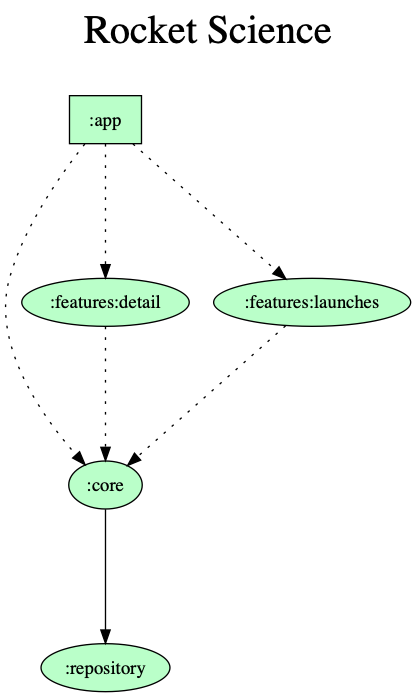
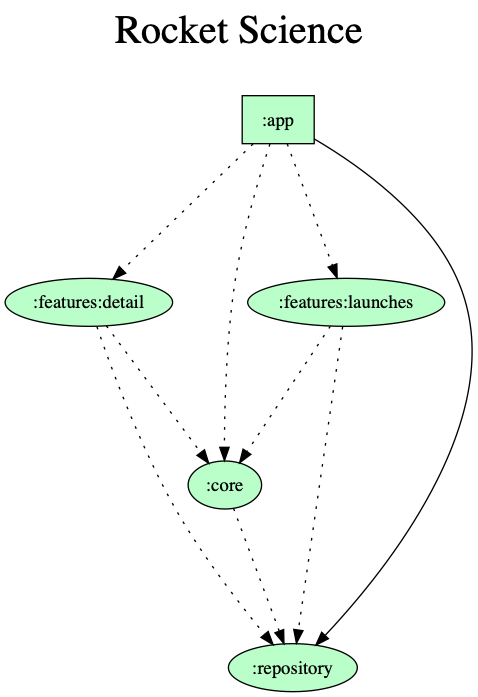
Feature/core repository separation (#44)
* Fixed wrong package name. Fixes #43 

* Updated package name. Fixes #41 

* Ignoring not-used warning - this graph is included in main graph

* Separated repository from core. Fixes #42 

* Removing adapter from recyclerView when view is destroyed to prevent leak. Fixes #40 

* Updated new module graph

diff --git a/features/launches/src/main/kotlin/com/melih/launches/ui/LaunchesFragment.kt b/features/launches/src/main/kotlin/com/melih/launches/ui/LaunchesFragment.kt
@@ -1,4 +1,4 @@
-package com.melih.list.ui
+package com.melih.launches.ui
 
 import android.os.Bundle
 import android.view.View
@@ -7,10 +7,10 @@ import androidx.swiperefreshlayout.widget.SwipeRefreshLayout
 import com.melih.core.actions.openDetail
 import com.melih.core.base.lifecycle.BaseDaggerFragment
 import com.melih.core.extensions.observe
-import com.melih.list.R
-import com.melih.list.databinding.ListBinding
-import com.melih.list.ui.adapters.LaunchesAdapter
-import com.melih.list.ui.vm.LaunchesViewModel
+import com.melih.launches.R
+import com.melih.launches.databinding.ListBinding
+import com.melih.launches.ui.adapters.LaunchesAdapter
+import com.melih.launches.ui.vm.LaunchesViewModel
 import com.melih.repository.entities.LaunchEntity
 import com.melih.repository.interactors.base.PersistenceEmpty
 import com.melih.repository.interactors.base.State
@@ -48,6 +48,11 @@ class LaunchesFragment : BaseDaggerFragment<ListBinding>(), SwipeRefreshLayout.O
 
         // Workaround for SwipeRefreshLayout leak -> https://issuetracker.google.com/issues/136153683
         binding.swipeRefreshLayout.isEnabled = false
+    }
+
+    override fun onDestroyView() {
+        super.onDestroyView()
+        binding.rocketList.adapter = null
     }
     //endregion
 

diff --git a/features/launches/src/main/kotlin/com/melih/launches/ui/adapters/LaunchesAdapter.kt b/features/launches/src/main/kotlin/com/melih/launches/ui/adapters/LaunchesAdapter.kt
@@ -1,11 +1,11 @@
-package com.melih.list.ui.adapters
+package com.melih.launches.ui.adapters
 
 import android.view.LayoutInflater
 import android.view.ViewGroup
 import com.melih.core.base.recycler.BasePagingListAdapter
 import com.melih.core.base.recycler.BaseViewHolder
 import com.melih.core.extensions.createDiffCallback
-import com.melih.list.databinding.LaunchRowBinding
+import com.melih.launches.databinding.LaunchRowBinding
 import com.melih.repository.entities.LaunchEntity
 
 class LaunchesAdapter(itemClickListener: (LaunchEntity) -> Unit) : BasePagingListAdapter<LaunchEntity>(

diff --git a/features/launches/src/test/kotlin/com/melih/launches/BaseTestWithMainThread.kt b/features/launches/src/test/kotlin/com/melih/launches/BaseTestWithMainThread.kt
@@ -1,6 +1,6 @@
 @file:UseExperimental(ExperimentalCoroutinesApi::class)
 
-package com.melih.list
+package com.melih.launches
 
 import kotlinx.coroutines.Dispatchers
 import kotlinx.coroutines.ExperimentalCoroutinesApi
@@ -10,6 +10,7 @@ import kotlinx.coroutines.test.setMain
 import org.junit.jupiter.api.AfterEach
 import org.junit.jupiter.api.BeforeEach
 
+@UseExperimental(ExperimentalCoroutinesApi::class)
 abstract class BaseTestWithMainThread {
 
     protected val dispatcher = TestCoroutineDispatcher()

diff --git a/features/launches/src/main/kotlin/com/melih/launches/di/LaunchesContributor.kt b/features/launches/src/main/kotlin/com/melih/launches/di/LaunchesContributor.kt
@@ -1,8 +1,8 @@
-package com.melih.list.di
+package com.melih.launches.di
 
-import com.melih.list.di.modules.LaunchesFragmentModule
-import com.melih.list.di.scopes.LaunchesFragmentScope
-import com.melih.list.ui.LaunchesFragment
+import com.melih.launches.di.modules.LaunchesFragmentModule
+import com.melih.launches.di.scopes.LaunchesFragmentScope
+import com.melih.launches.ui.LaunchesFragment
 import dagger.Module
 import dagger.android.ContributesAndroidInjector
 

diff --git a/features/launches/src/main/kotlin/com/melih/launches/di/modules/LaunchesFragmentModule.kt b/features/launches/src/main/kotlin/com/melih/launches/di/modules/LaunchesFragmentModule.kt
@@ -1,9 +1,9 @@
-package com.melih.list.di.modules
+package com.melih.launches.di.modules
 
 import androidx.lifecycle.ViewModel
 import androidx.paging.Config
 import com.melih.core.di.keys.ViewModelKey
-import com.melih.list.ui.vm.LaunchesViewModel
+import com.melih.launches.ui.vm.LaunchesViewModel
 import com.melih.repository.interactors.DEFAULT_LAUNCHES_AMOUNT
 import com.melih.repository.interactors.GetLaunches
 import dagger.Binds

diff --git a/features/launches/src/main/kotlin/com/melih/launches/ui/vm/LaunchesViewModel.kt b/features/launches/src/main/kotlin/com/melih/launches/ui/vm/LaunchesViewModel.kt
@@ -1,9 +1,9 @@
-package com.melih.list.ui.vm
+package com.melih.launches.ui.vm
 
 import androidx.paging.PagedList
 import com.melih.core.base.paging.BasePagingFactory
 import com.melih.core.base.viewmodel.BasePagingViewModel
-import com.melih.list.ui.paging.LaunchesPagingSourceFactory
+import com.melih.launches.ui.paging.LaunchesPagingSourceFactory
 import com.melih.repository.entities.LaunchEntity
 import javax.inject.Inject
 

diff --git a/features/detail/src/main/kotlin/com/melih/detail/di/DetailContributor.kt b/features/detail/src/main/kotlin/com/melih/detail/di/DetailContributor.kt
@@ -1,8 +1,8 @@
 package com.melih.detail.di
 
 import com.melih.detail.di.modules.DetailFragmentModule
+import com.melih.detail.di.scopes.DetailFragmentScope
 import com.melih.detail.ui.DetailFragment
-import com.melih.list.di.scopes.DetailFragmentScope
 import dagger.Module
 import dagger.android.ContributesAndroidInjector
 

diff --git a/app/src/main/kotlin/com/melih/rocketscience/di/AppModule.kt b/app/src/main/kotlin/com/melih/rocketscience/di/AppModule.kt
@@ -1,7 +1,7 @@
 package com.melih.rocketscience.di
 
 import com.melih.detail.di.DetailContributor
-import com.melih.list.di.LaunchesContributor
+import com.melih.launches.di.LaunchesContributor
 import com.melih.rocketscience.MainActivity
 import dagger.Module
 import dagger.android.ContributesAndroidInjector

diff --git a/features/launches/src/main/kotlin/com/melih/launches/ui/paging/LaunchesPagingSourceFactory.kt b/features/launches/src/main/kotlin/com/melih/launches/ui/paging/LaunchesPagingSourceFactory.kt
@@ -1,4 +1,4 @@
-package com.melih.list.ui.paging
+package com.melih.launches.ui.paging
 
 import com.melih.core.base.paging.BasePagingDataSource
 import com.melih.core.base.paging.BasePagingFactory

diff --git a/features/launches/src/main/kotlin/com/melih/launches/ui/paging/LaunchesPagingSource.kt b/features/launches/src/main/kotlin/com/melih/launches/ui/paging/LaunchesPagingSource.kt
@@ -1,4 +1,4 @@
-package com.melih.list.ui.paging
+package com.melih.launches.ui.paging
 
 import com.melih.core.base.paging.BasePagingDataSource
 import com.melih.repository.entities.LaunchEntity

diff --git a/features/launches/src/main/kotlin/com/melih/launches/di/scopes/LaunchesFragmentScope.kt b/features/launches/src/main/kotlin/com/melih/launches/di/scopes/LaunchesFragmentScope.kt
@@ -1,4 +1,4 @@
-package com.melih.list.di.scopes
+package com.melih.launches.di.scopes
 
 import javax.inject.Scope
 

diff --git a/features/launches/src/main/kotlin/com/melih/launches/di/scopes/LaunchesScope.kt b/features/launches/src/main/kotlin/com/melih/launches/di/scopes/LaunchesScope.kt
@@ -1,4 +1,4 @@
-package com.melih.list.di.scopes
+package com.melih.launches.di.scopes
 
 import javax.inject.Scope
 
